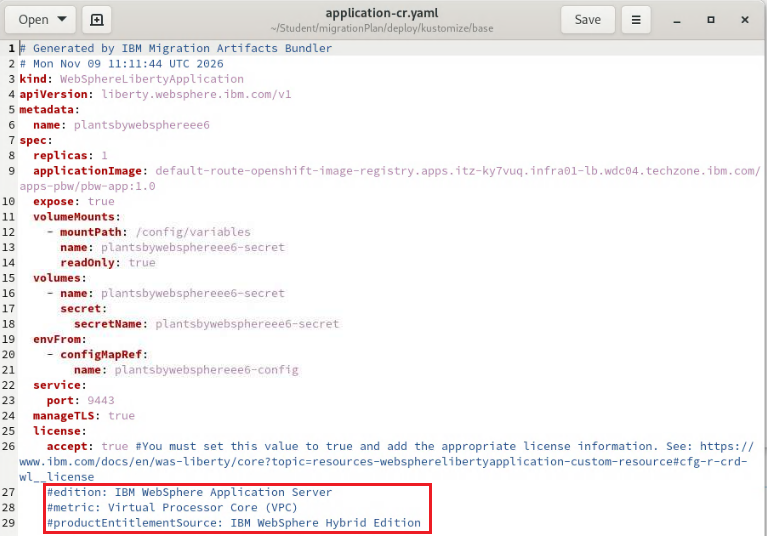
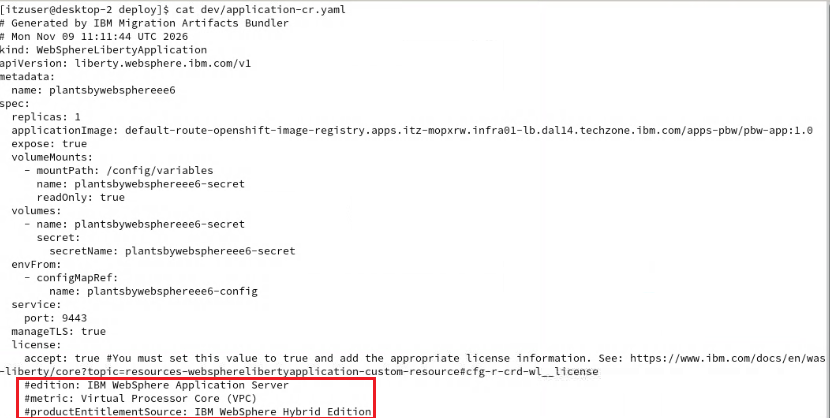
Update ILS part 4

Changed region(s): [[0.0, 0.0, 1.0, 1.0]]

diff --git a/ILS_README.md b/ILS_README.md
@@ -562,7 +562,7 @@ Start from scratch without any deployment:
 
 5. Compare the findings with the deployment file.
 
-        cat dev/application-cr.yaml
+       cat dev/application-cr.yaml
 
     ![ILS_application-cr1](./images/media/ILS_application-cr1.png)
 
@@ -572,6 +572,7 @@ Start from scratch without any deployment:
 
 6. Adjust the deployment to add entitlement details.
 
+       cd ~/Student/deploy
        sed -i "s|#edition: IBM WebSphere Application Server|edition: IBM WebSphere Application Server|g" dev/application-cr.yaml
        sed -i "s|#metric: Virtual Processor Core (VPC)|metric: Virtual Processor Core (VPC)|g" dev/application-cr.yaml
        sed -i "s|#productEntitlementSource: IBM WebSphere Hybrid Edition|productEntitlementSource: IBM Enterprise Application Runtimes|g" dev/application-cr.yaml
@@ -579,22 +580,21 @@ Start from scratch without any deployment:
     
     ![ILS_application-cr2](./images/media/ILS_application-cr2.png)
 
-    Save the changes but keep the editor open.
 
         
 7. Apply the changes and see the results: 
    
-        cd ~/Student/migrationPlan/deploy/kustomize/
-        oc apply -n apps-pbw -k overlays/dev
+       cd ~/Student/deploy
+       oc apply -n apps-pbw -f dev/application-cr.yaml
 
     Reload the ILS Status page and take a look at the changes.
 
     ![ILS_Status-Page-2WLP-noLimit.png](./images/media/ILS_Status-Page-2WLP-noLimit.png)
     
-    - The product is annotated for WebSphere Application Server but now based on VPCs as WebSphere Hybrid Edition (WSHE) has the VPC metric.
+    - The product is annotated for WebSphere Application Server but now based on VPCs.
     - The node has 8 cores
     - A CPU limit is not set, so the whole worker node will be licensed.
-    - WAS has the ratio 4:1 within the WebSphere Hybrid Edition, which means 4 deployed cores require 1 VPC of WSHE. 
+    - WAS Base has the ratio 11:2 within IBM Enterprise Application Runtimes (EAR), which means 11 deployed cores require 2 VPC of EAR. 
     - As the whole worker node must be licensed and the ratio 4:1 is applied, the metric value is 2.
 
 8. Add a cpu limit to avoid that the whole worker node must be licensed.
